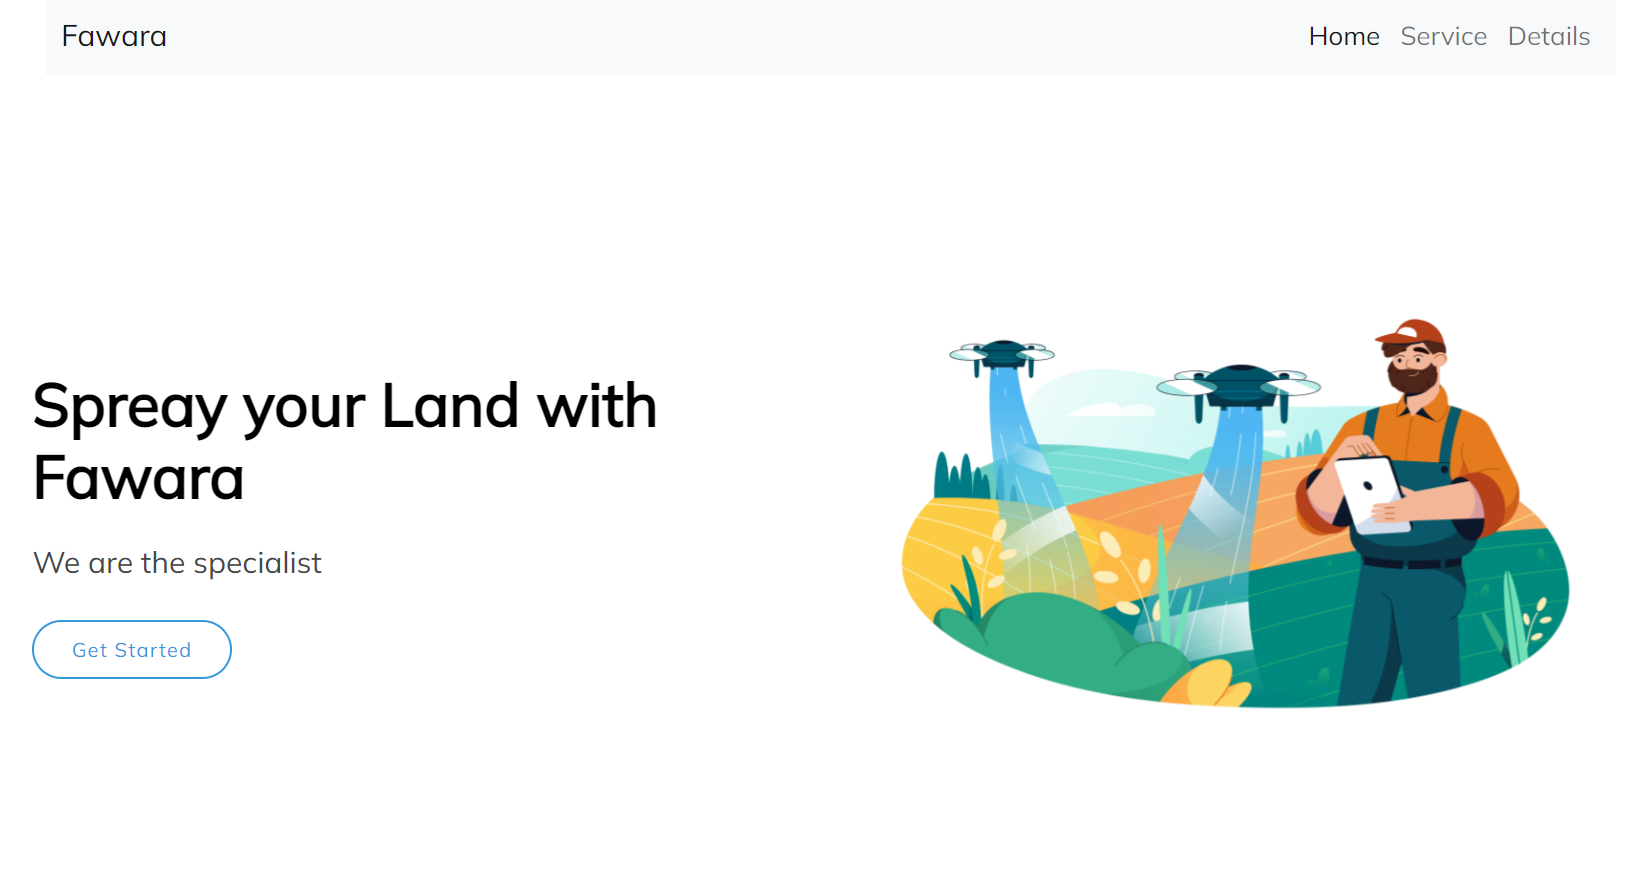
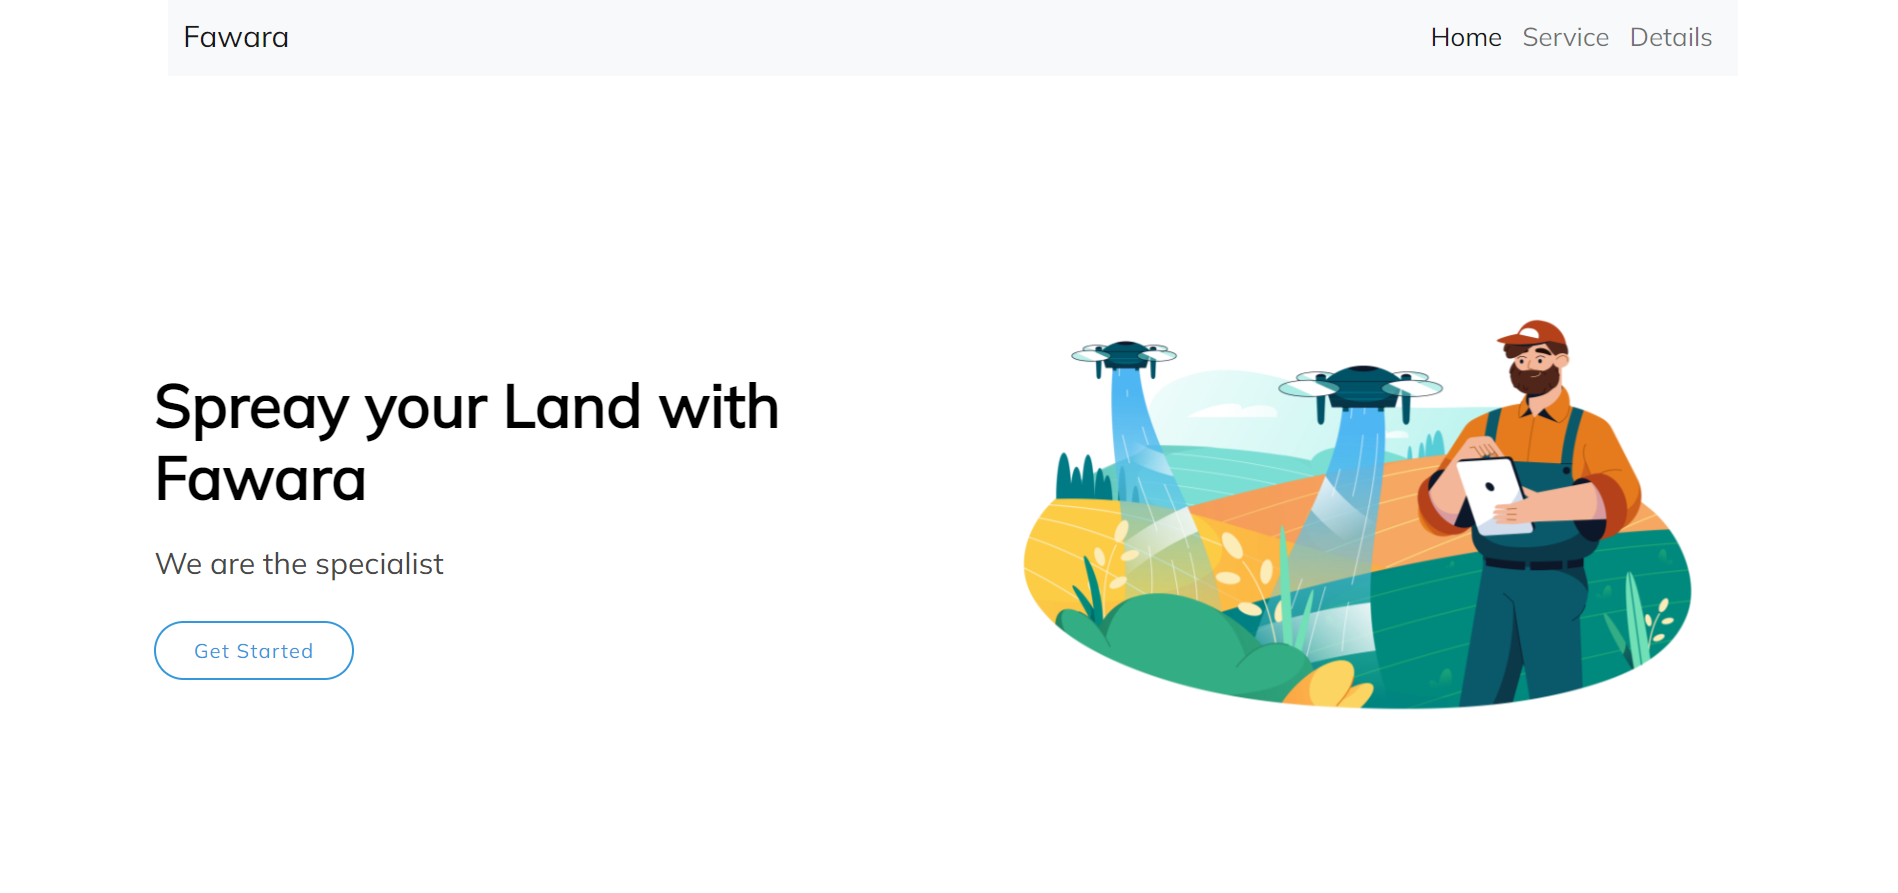
filled all empty boxes

diff --git a/index.html b/index.html
@@ -45,7 +45,7 @@
   </nav>
 
   <!-- Page Content -->
-  <div class="container py-5">
+  <div class="container">
 
     <!-- content header -->
     <div class="row">
@@ -63,9 +63,9 @@
                 </div>
             </div>
         </div>
-        <div class="col-lg-6">
+        <div class="col-lg-6 my-2">
             <div class="container">
-                <img class="images img-fluid mx-auto d-block" src="images/profile-pic1.png" alt="my pic" style="max-width: 75%; height: auto;">
+                <img class="images img-fluid mx-auto d-block" src="images/profile-pic1.png" alt="my pic" style="max-width: 75%; height: auto; margin:25px">
             </div>
         </div>
     </div>
@@ -115,7 +115,7 @@
         </div>
 
         <div class="row">
-            <div class="col-lg-6 mb-2">
+            <div class="col-lg-6 my-4">
                 <div class="card card1">
                     <img src="images/project1.png" class="card-img-top" alt="...">
                     <div class="card-body">
@@ -129,7 +129,7 @@
                   </div>
             </div>
 
-            <div class="col-lg-6 mb-2">
+            <div class="col-lg-6 my-4">
                 <div class="card card1">
                     <img src="images/project2.png" class="card-img-top" alt="...">
                     <div class="card-body">
@@ -138,18 +138,40 @@
                         Implemented a job scheduling portal leveraging location and time constraints, 
                         boosting daily job capacity by 25% and improving operational efficiency.
                       </p>
-                      <p class="card-text text-muted">Tech stack:  MERN Stack, OpenStreetMap API, Leaflet Routing Machine, TSP algorithms.</p>
+                      <p class="card-text text-muted">Tech stack:  MERN Stack, OpenStreetMap API, Leaflets</p>
                       <i class="fa-solid fa-link"></i> <a href="#">Check Website</a>
                     </div>
                   </div>
             </div>
 
-            <div class="col-lg-6 mb-2">
-                
+            <div class="col-lg-6 my-4">
+              <div class="card card1">
+                <img src="images/project3.png" class="card-img-top" alt="...">
+                <div class="card-body">
+                  <h5 class="card-title">Requirements-based Loan System for Farmers</h5>
+                  <p class="card-text">
+                    Designed an innovative agricultural loan system inspired by Chhatrapati 
+                    Shivaji Maharaj's model, reducing farmers' cash requirement by 70%.
+                  </p>
+                  <p class="card-text text-muted">Tech stack: PHP, Bootstrap, HTML, CSS, JavaScript, MySQL</p>
+                  <i class="fa-solid fa-link"></i> <a href="#">Check Website</a>
+                </div>
+              </div>
             </div>
 
-            <div class="col-lg-6 mb-2">
-                
+            <div class="col-lg-6 my-4">
+              <div class="card card1">
+                <img src="images/project4.png" class="card-img-top" alt="...">
+                <div class="card-body">
+                  <h5 class="card-title">Requirements-based Loan System for Farmers</h5>
+                  <p class="card-text">
+                    Developed for Microsoft Future Ready Talent Virtual Internship Program. 
+                    Implemented a healthbot for disease consultation.
+                  </p>
+                  <p class="card-text text-muted">Tech stack: HTML, CSS, JavaScript, Bootstrap, ML, MS Azure</p>
+                  <i class="fa-solid fa-link"></i> <a href="https://yellow-moss-0a0e18b00.3.azurestaticapps.net/" target="_blank">Check Website</a>
+                </div>
+              </div>
             </div>
 
             <!-- Add more project cards as needed -->
@@ -159,7 +181,7 @@
 
 
     <!-- Services Section -->
-    <section id="services" class="my-5">
+    <section id="services" class="page-section">
     <h2 class="page-section-heading text-center text-uppercase text-dark">Services</h2>
       <div class="divider-custom divider-dark">
             <div class="divider-custom-line"></div>
@@ -168,13 +190,13 @@
         </div>
 
         <!-- serives start -->
-        <div class="row">
-            <div class="col-lg-4 mb-2">
+        <div class="row p-3">
+            <div class="col-lg-4 my-4">
               <div class="card card2 d-flex align-items-center">
                 <div class="card-body ">
                     <!-- Lottie Animation -->
                     <script src="https://unpkg.com/@dotlottie/player-component@latest/dist/dotlottie-player.mjs" type="module"></script>
-                    <dotlottie-player src="https://lottie.host/1daa10dc-faf5-4f92-a65e-71914e92df41/99tWPzCrTc.lottie" background="transparent" speed="1" style="width: 100%; height: 100%;" loop autoplay></dotlottie-player>
+                    <dotlottie-player class="lottie-player" src="https://lottie.host/1daa10dc-faf5-4f92-a65e-71914e92df41/99tWPzCrTc.lottie" background="transparent" speed="1" loop autoplay></dotlottie-player>
                     <!-- Title -->
                     <h6 class="card-title text-center">Web Development</h6>
                     <!-- Subtitle -->
@@ -184,32 +206,74 @@
         </div>
 
 
-            <div class="col-lg-4 mb-2">
+            <div class="col-lg-4 my-4">
                 <div class="card card2 d-flex align-items-center">
                    <div class="card-body ">
                        <!-- Lottie Animation -->
-                       <dotlottie-player src="https://lottie.host/c8aa4204-5719-4fd8-b400-839e1f8b694a/JGLpt98wQR.lottie" background="transparent" speed="1" style="width: 100%; height: 100%;" loop autoplay></dotlottie-player>
+                       <dotlottie-player class="lottie-player" src="https://lottie.host/c8aa4204-5719-4fd8-b400-839e1f8b694a/JGLpt98wQR.lottie" background="transparent" speed="1"  loop autoplay></dotlottie-player>
                        <!-- Title -->
                        <h6 class="card-title text-center">Database Management</h6>
                        <!-- Subtitle -->
-                       <p class="card-text text-justify" id="subtitle">Setting up, managing, and integrating databases using MySQL, MongoDB, and Oracle, ensuring efficient data storage, retrieval, and manipulation.</p>
+                       <p class="card-text text-justify" id="subtitle">Setting up, managing, and integrating databases and ensuring efficient data storage, retrieval, and manipulation.</p>
                    </div>
                </div>
             </div>
 
-               <div class="col-lg-4 mb-2">
+               <div class="col-lg-4 my-4">
                 <div class="card card2 d-flex align-items-center">
                    <div class="card-body ">
                        <!-- Lottie Animation -->
                        <script src="https://unpkg.com/@dotlottie/player-component@latest/dist/dotlottie-player.mjs" type="module"></script>
-                       <dotlottie-player src="https://lottie.host/7eec4d3b-1795-4124-8cb2-ad0ea2983c2a/nP09y7IWD9.lottie" background="transparent" speed="1" style="width: 100%; height: 100%;" loop autoplay></dotlottie-player>
+                       <dotlottie-player class="lottie-player" src="https://lottie.host/7eec4d3b-1795-4124-8cb2-ad0ea2983c2a/nP09y7IWD9.lottie" background="transparent" speed="1"  loop autoplay></dotlottie-player>
                        <!-- Title -->
                        <h6 class="card-title text-center">UI/UX Design</h6>
                        <!-- Subtitle -->
-                       <p class="card-text text-justify" id="subtitle">Offering UI/UX design services to create intuitive and visually appealing user interfaces for websites and applications, focusing on enhancing user experience and engagement.</p>
+                       <p class="card-text text-justify" id="subtitle">Offering UI/UX design services to create visually appealing user interfaces, focusing on enhancing user experience and engagement.</p>
                    </div>
                </div>
             </div>
+
+            <div class="col-lg-4 my-4">
+              <div class="card card2 d-flex align-items-center">
+                 <div class="card-body ">
+                     <!-- Lottie Animation -->
+                     <dotlottie-player class="lottie-player" src="https://lottie.host/40a4597d-ff59-44b7-a7a4-d7fa2e88010b/AgUnK0DA9r.lottie" background="transparent" speed="1"  loop autoplay></dotlottie-player>
+                     <!-- Title -->
+                     <h6 class="card-title text-center">Data Analysis</h6>
+                     <!-- Subtitle -->
+                     <p class="card-text text-justify" id="subtitle">Utilizing my skills in NumPy, Pandas, SQL, and Python to perform data analysis, extract insights for informed decision-making.</p>
+                 </div>
+             </div>
+          </div>
+
+          <div class="col-lg-4 my-4">
+            <div class="card card2 d-flex align-items-center">
+               <div class="card-body ">
+                   <!-- Lottie Animation -->
+                   <dotlottie-player class="lottie-player" src="https://lottie.host/e662009b-bab7-431d-837b-a82b1bf1778f/W24BZhdppr.lottie" background="transparent" speed="1"  loop autoplay></dotlottie-player>
+                   <!-- Title -->
+                   <h6 class="card-title text-center">Digital Marketing</h6>
+                   <!-- Subtitle -->
+                   <p class="card-text text-justify" id="subtitle">Developing and executing digital marketing strategies to enhance online presence, drive traffic, and generate leads.</p>
+               </div>
+           </div>
+        </div>
+
+        <div class="col-lg-4 my-4">
+          <div class="card card2 d-flex align-items-center">
+             <div class="card-body ">
+                 <!-- Lottie Animation -->
+                 <dotlottie-player class="lottie-player" src="https://lottie.host/a41f195c-6951-46e3-b6e0-d3df84314fee/aLoLQmL8dI.lottie" background="transparent" speed="1"  loop autoplay></dotlottie-player>
+                 <!-- Title -->
+                 <h6 class="card-title text-center">Digital Solutions</h6>
+                 <!-- Subtitle -->
+                 <p class="card-text text-justify" id="subtitle">Offering comprehensive digital solutions tailored to meet your needs. Provinding solutions to your digital problems</p>
+             </div>
+         </div>
+      </div>
+
+
+
         </div>
     </section>
     

diff --git a/style.css b/style.css
@@ -141,50 +141,8 @@ p .marathi {
     border-top: 2px solid rgb(85, 125, 255);
 }
 
-.service-box{
-	background: #D0E8FF;
-	padding:0 10px;
-	cursor:pointer;
-	margin-bottom:10px;
-	transition:.4s;
-}
-.service-box img{
-	width:84px;
-	margin-top:35px;
-	margin-bottom:15px;
-}
-.service-box h6{
-	margin-bottom: 20px;
-	font-family: 'Open Sans', sans-serif;
-	font-weight: 600;
-	font-size: 25px;
-    text-align: center;
-	line-height: 38px;
-}
-.service-box p{
-	font-family: 'Poppins';
-	font-weight: 400;
-	font-size: 14px;
-	line-height: px;
-	text-align: center;
-	margin-bottom: 32.6px;
-}
-.fas{
-	font-size:22px!important;
-	margin-bottom:35px;
-	background: #F6F6FF;
-	padding: 8px 10px;
-	border-radius: 50%;
-	color: #3480C8;;
-}
-.service-box:hover, .active-service {
-	background:#6900d1;
-	color:#fff !important;
-	border-radius:5px;
-	box-shadow:0 15px 15px 2px rgba( 213,213,213,0.5);
-}
-.service-box #subtitle{
-	padding-bottom: 64px !important;
+.lottie-player {
+  height: 200px; /* Adjust the height as needed */
 }
 
 @keyframes SocialAni {
